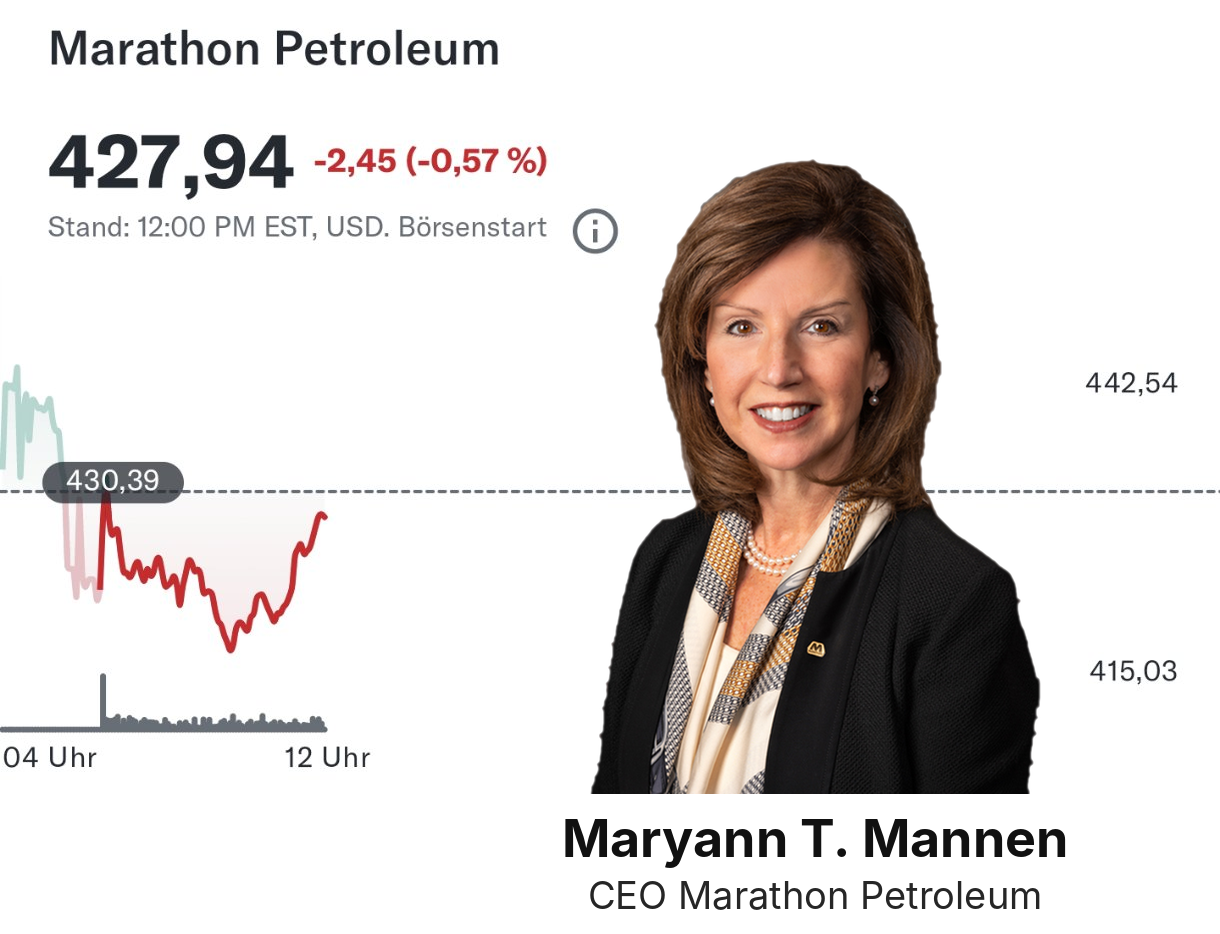
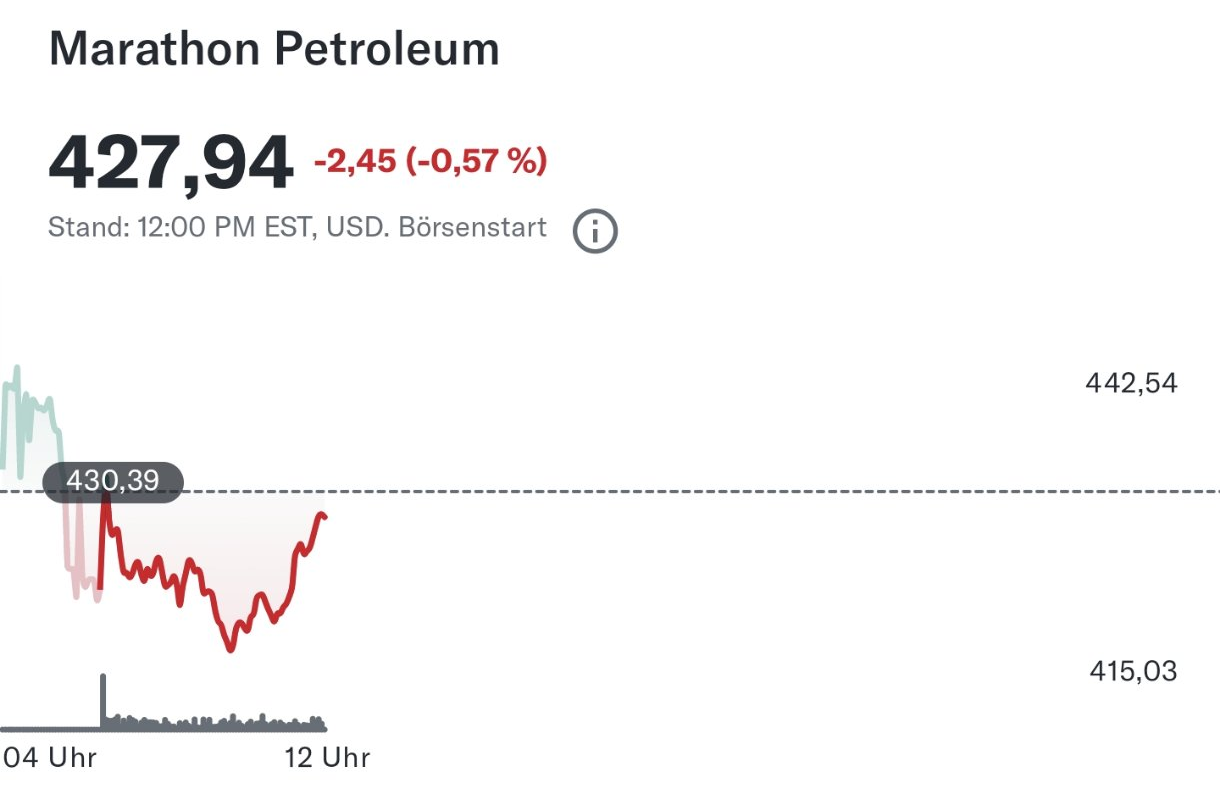
Story: Kursbild links und Portrait rechts sitzen auf dem unteren Balken, Name klein links neben der Person
Claude-Session: https://claude.ai/code/session_019XvbgBLukfMhVVHAfy3Xu4

diff --git a/news/marathon-petroleum-q3-2026-quartalszahlen/index.html b/news/marathon-petroleum-q3-2026-quartalszahlen/index.html
@@ -45,7 +45,7 @@
 <p class="kchip-row"><span class="kchip" data-kurs="MPC">$MPC</span></p>
 <p class="lead">Marathon Petroleum meldet für das dritte Quartal 2026 einen Nettogewinn von 7,4 Mrd. USD. Treiber sind die stark gestiegenen Margen für Diesel und andere Kraftstoffe, nicht mehr Absatz.</p>
 <p class="byline"><strong><a href="../../ueber-uns/">Aus der Redaktion</a></strong> · <time datetime="2026-11-03T18:05:00+01:00">3. November 2026, 18:05 Uhr</time> · 5 Min. Lesezeit</p>
-<div class="sharebar" data-url="https://dividenden-rechner.github.io/aktien-hub/news/marathon-petroleum-q3-2026-quartalszahlen/" data-story="{&quot;title&quot;: &quot;Raffineriemargen heben das bereinigte EBITDA auf 11,7 Mrd. US-Dollar&quot;, &quot;lines&quot;: [&quot;Bereinigtes EBITDA: 11,7 Mrd. USD (Vorjahr 3,2 Mrd.)&quot;, &quot;Gewinn je Aktie: 26,93 USD (bereinigt)&quot;], &quot;points&quot;: [&quot;Treiber: Das Raffineriegeschäft liefert 9,9 Mrd. USD bereinigtes EBITDA nach 1,8 Mrd. im Vorjahr. Fast der gesamte Sprung kommt aus höheren Margen für Kraftstoffe wie Diesel, nicht aus mehr Absatz oder niedrigeren Kosten.&quot;, &quot;Kapitalrückgabe: 3,3 Mrd. USD fließen an die Aktionäre, fast alles über Aktienrückkäufe. Die Dividende steigt um 10 %, dazu kommt eine neue Rückkaufermächtigung über 5 Mrd. USD.&quot;, &quot;Einordnung: Die Margen hängen stark an der Marktlage. Das Unternehmen selbst nennt Preisschwankungen durch den US-Iran-Konflikt und mögliche Sondersteuern als Risiko.&quot;], &quot;box&quot;: &quot;Kurz gesagt&quot;, &quot;ct&quot;: &quot;$MPC&quot;, &quot;img&quot;: &quot;../../assets/magazin/marathon-petroleum-q3-2026-quartalszahlen-f1.png&quot;, &quot;logo&quot;: &quot;../../assets/logos/mpc.png&quot;, &quot;cat&quot;: &quot;Quartalszahlen&quot;, &quot;tpl&quot;: &quot;../../assets/story-vorlagen/quartalsbericht.png&quot;, &quot;fit&quot;: &quot;contain&quot;, &quot;chart&quot;: &quot;../../assets/magazin/marathon-petroleum-q3-2026-quartalszahlen-kurs.png&quot;}"><span class="sharelab">Teilen</span><button type="button" class="sharebtn ig" id="igshare" title="Als Instagram-Story teilen" aria-label="Als Instagram-Story teilen"><svg viewBox="0 0 24 24" aria-hidden="true"><rect x="3" y="3" width="18" height="18" rx="5.2" fill="none" stroke="currentColor" stroke-width="2"/><circle cx="12" cy="12" r="4.1" fill="none" stroke="currentColor" stroke-width="2"/><circle cx="17.3" cy="6.7" r="1.3"/></svg></button><a class="sharebtn x" href="https://twitter.com/intent/tweet?text=Marathon%20Petroleum%3A%20Raffineriemargen%20heben%20das%20bereinigte%20EBITDA%20auf%2011%2C7%E2%80%AFMrd.%E2%80%AFUS-Dollar%0A%0A%24MPC%20%23Dividende%20%23Aktien%20%23Quartalszahlen&amp;url=https%3A//dividenden-rechner.github.io/aktien-hub/news/marathon-petroleum-q3-2026-quartalszahlen/" target="_blank" rel="noopener nofollow" title="Auf X teilen" aria-label="Auf X teilen"><svg viewBox="0 0 24 24" aria-hidden="true"><path d="M18.244 2.25h3.308l-7.227 8.26 8.502 11.24H16.17l-5.214-6.817L4.99 21.75H1.68l7.73-8.835L1.254 2.25H8.08l4.713 6.231zm-1.161 17.52h1.833L7.084 4.126H5.117z"/></svg></a><a class="sharebtn facebook" href="https://www.facebook.com/sharer/sharer.php?u=https%3A//dividenden-rechner.github.io/aktien-hub/news/marathon-petroleum-q3-2026-quartalszahlen/" target="_blank" rel="noopener nofollow" title="Auf Facebook teilen" aria-label="Auf Facebook teilen"><svg viewBox="0 0 24 24" aria-hidden="true"><path d="M24 12.073c0-6.627-5.373-12-12-12s-12 5.373-12 12c0 5.99 4.388 10.954 10.125 11.854v-8.385H7.078v-3.47h3.047V9.43c0-3.007 1.792-4.669 4.533-4.669 1.312 0 2.686.235 2.686.235v2.953H15.83c-1.491 0-1.956.925-1.956 1.874v2.25h3.328l-.532 3.47h-2.796v8.385C19.612 23.027 24 18.062 24 12.073z"/></svg></a><a class="sharebtn linkedin" href="https://www.linkedin.com/sharing/share-offsite/?url=https%3A//dividenden-rechner.github.io/aktien-hub/news/marathon-petroleum-q3-2026-quartalszahlen/" target="_blank" rel="noopener nofollow" title="Auf LinkedIn teilen" aria-label="Auf LinkedIn teilen"><svg viewBox="0 0 24 24" aria-hidden="true"><path d="M20.447 20.452h-3.554v-5.569c0-1.328-.027-3.037-1.852-3.037-1.853 0-2.136 1.445-2.136 2.939v5.667H9.351V9h3.414v1.561h.046c.477-.9 1.637-1.85 3.37-1.85 3.601 0 4.267 2.37 4.267 5.455v6.286zM5.337 7.433c-1.144 0-2.063-.926-2.063-2.065 0-1.138.92-2.063 2.063-2.063 1.14 0 2.064.925 2.064 2.063 0 1.139-.925 2.065-2.064 2.065zm1.782 13.019H3.555V9h3.564v11.452zM22.225 0H1.771C.792 0 0 .774 0 1.729v20.542C0 23.227.792 24 1.771 24h20.451C23.2 24 24 23.227 24 22.271V1.729C24 .774 23.2 0 22.222 0h.003z"/></svg></a><a class="sharebtn whatsapp" href="https://wa.me/?text=Marathon%20Petroleum%3A%20Raffineriemargen%20heben%20das%20bereinigte%20EBITDA%20auf%2011%2C7%E2%80%AFMrd.%E2%80%AFUS-Dollar%20https%3A//dividenden-rechner.github.io/aktien-hub/news/marathon-petroleum-q3-2026-quartalszahlen/" target="_blank" rel="noopener nofollow" title="Per WhatsApp senden" aria-label="Per WhatsApp senden"><svg viewBox="0 0 24 24" aria-hidden="true"><path d="M12 2a10 10 0 00-8.6 15.1L2 22l5-1.3A10 10 0 1012 2zm0 18.2c-1.5 0-3-.4-4.2-1.2l-.3-.2-3 .8.8-2.9-.2-.3A8.2 8.2 0 1112 20.2zm4.5-6.1c-.2-.1-1.5-.7-1.7-.8-.2-.1-.4-.1-.6.1l-.8 1c-.1.2-.3.2-.5.1-1.4-.7-2.4-1.3-3.3-2.9-.2-.4.2-.4.7-1.3.1-.2 0-.3 0-.5l-.8-1.8c-.2-.5-.4-.4-.6-.4h-.5c-.2 0-.5.1-.7.3-.8.8-1 1.7-.9 2.6.2 1.1.8 2.1 1.6 3 1.4 1.7 3.1 2.6 5.2 3.2.7.2 1.3.2 1.8.1.6-.1 1.5-.6 1.7-1.2.2-.6.2-1.1.2-1.2-.1-.1-.3-.2-.5-.3z"/></svg></a><a class="sharebtn telegram" href="https://t.me/share/url?url=https%3A//dividenden-rechner.github.io/aktien-hub/news/marathon-petroleum-q3-2026-quartalszahlen/&amp;text=Marathon%20Petroleum%3A%20Raffineriemargen%20heben%20das%20bereinigte%20EBITDA%20auf%2011%2C7%E2%80%AFMrd.%E2%80%AFUS-Dollar" target="_blank" rel="noopener nofollow" title="Per Telegram senden" aria-label="Per Telegram senden"><svg viewBox="0 0 24 24" aria-hidden="true"><path d="M9.78 18.65l.28-4.23 7.68-6.92c.34-.31-.07-.46-.52-.19L7.74 13.3 3.64 12c-.88-.25-.89-.86.2-1.3l15.97-6.16c.73-.33 1.43.18 1.15 1.3l-2.72 12.81c-.19.91-.74 1.13-1.5.71L12.6 16.3l-1.99 1.93c-.23.23-.42.42-.83.42z"/></svg></a><a class="sharebtn mail" href="mailto:?subject=Marathon%20Petroleum%3A%20Raffineriemargen%20heben%20das%20bereinigte%20EBITDA%20auf%2011%2C7%E2%80%AFMrd.%E2%80%AFUS-Dollar&amp;body=Marathon%20Petroleum%20meldet%20f%C3%BCr%20das%20dritte%20Quartal%202026%20einen%20Nettogewinn%20von%207%2C4%E2%80%AFMrd.%E2%80%AFUSD.%20Treiber%20sind%20die%20stark%20gestiegenen%20Margen%20f%C3%BCr%20Diesel%20und%20andere%20Kraftstoffe%2C%20nicht%20mehr%20Absatz.%0A%0Ahttps%3A//dividenden-rechner.github.io/aktien-hub/news/marathon-petroleum-q3-2026-quartalszahlen/" target="_blank" rel="noopener nofollow" title="Per E-Mail senden" aria-label="Per E-Mail senden"><svg viewBox="0 0 24 24" aria-hidden="true"><rect x="2.5" y="5" width="19" height="14" rx="2.2" fill="none" stroke="currentColor" stroke-width="2"/><path d="M3.5 7l8.5 6.2L20.5 7" fill="none" stroke="currentColor" stroke-width="2" stroke-linejoin="round"/></svg></a><button type="button" class="sharebtn" id="cpshare" title="Link kopieren" aria-label="Link kopieren"><svg viewBox="0 0 24 24" aria-hidden="true"><path d="M10 14a4 4 0 005.7 0l3-3a4 4 0 00-5.7-5.7l-1 1M14 10a4 4 0 00-5.7 0l-3 3a4 4 0 005.7 5.7l1-1" fill="none" stroke="currentColor" stroke-width="2" stroke-linecap="round"/></svg></button><span class="sharemsg" id="igmsg" role="status"></span></div>
+<div class="sharebar" data-url="https://dividenden-rechner.github.io/aktien-hub/news/marathon-petroleum-q3-2026-quartalszahlen/" data-story="{&quot;title&quot;: &quot;Raffineriemargen heben das bereinigte EBITDA auf 11,7 Mrd. US-Dollar&quot;, &quot;lines&quot;: [&quot;Bereinigtes EBITDA: 11,7 Mrd. USD (Vorjahr 3,2 Mrd.)&quot;, &quot;Gewinn je Aktie: 26,93 USD (bereinigt)&quot;], &quot;points&quot;: [&quot;Treiber: Das Raffineriegeschäft liefert 9,9 Mrd. USD bereinigtes EBITDA nach 1,8 Mrd. im Vorjahr. Fast der gesamte Sprung kommt aus höheren Margen für Kraftstoffe wie Diesel, nicht aus mehr Absatz oder niedrigeren Kosten.&quot;, &quot;Kapitalrückgabe: 3,3 Mrd. USD fließen an die Aktionäre, fast alles über Aktienrückkäufe. Die Dividende steigt um 10 %, dazu kommt eine neue Rückkaufermächtigung über 5 Mrd. USD.&quot;, &quot;Einordnung: Die Margen hängen stark an der Marktlage. Das Unternehmen selbst nennt Preisschwankungen durch den US-Iran-Konflikt und mögliche Sondersteuern als Risiko.&quot;], &quot;box&quot;: &quot;Kurz gesagt&quot;, &quot;ct&quot;: &quot;$MPC&quot;, &quot;img&quot;: &quot;../../assets/magazin/marathon-petroleum-q3-2026-quartalszahlen-f1.png&quot;, &quot;logo&quot;: &quot;../../assets/logos/mpc.png&quot;, &quot;cat&quot;: &quot;Quartalszahlen&quot;, &quot;tpl&quot;: &quot;../../assets/story-vorlagen/quartalsbericht.png&quot;, &quot;fit&quot;: &quot;contain&quot;, &quot;chart&quot;: &quot;../../assets/magazin/marathon-petroleum-q3-2026-quartalszahlen-kurs.png&quot;, &quot;portrait&quot;: &quot;../../assets/magazin/maryann-mannen-marathon-petroleum.png&quot;, &quot;quote&quot;: &quot;&quot;, &quot;quote_by&quot;: &quot;Maryann T. Mannen | CEO Marathon Petroleum&quot;}"><span class="sharelab">Teilen</span><button type="button" class="sharebtn ig" id="igshare" title="Als Instagram-Story teilen" aria-label="Als Instagram-Story teilen"><svg viewBox="0 0 24 24" aria-hidden="true"><rect x="3" y="3" width="18" height="18" rx="5.2" fill="none" stroke="currentColor" stroke-width="2"/><circle cx="12" cy="12" r="4.1" fill="none" stroke="currentColor" stroke-width="2"/><circle cx="17.3" cy="6.7" r="1.3"/></svg></button><a class="sharebtn x" href="https://twitter.com/intent/tweet?text=Marathon%20Petroleum%3A%20Raffineriemargen%20heben%20das%20bereinigte%20EBITDA%20auf%2011%2C7%E2%80%AFMrd.%E2%80%AFUS-Dollar%0A%0A%24MPC%20%23Dividende%20%23Aktien%20%23Quartalszahlen&amp;url=https%3A//dividenden-rechner.github.io/aktien-hub/news/marathon-petroleum-q3-2026-quartalszahlen/" target="_blank" rel="noopener nofollow" title="Auf X teilen" aria-label="Auf X teilen"><svg viewBox="0 0 24 24" aria-hidden="true"><path d="M18.244 2.25h3.308l-7.227 8.26 8.502 11.24H16.17l-5.214-6.817L4.99 21.75H1.68l7.73-8.835L1.254 2.25H8.08l4.713 6.231zm-1.161 17.52h1.833L7.084 4.126H5.117z"/></svg></a><a class="sharebtn facebook" href="https://www.facebook.com/sharer/sharer.php?u=https%3A//dividenden-rechner.github.io/aktien-hub/news/marathon-petroleum-q3-2026-quartalszahlen/" target="_blank" rel="noopener nofollow" title="Auf Facebook teilen" aria-label="Auf Facebook teilen"><svg viewBox="0 0 24 24" aria-hidden="true"><path d="M24 12.073c0-6.627-5.373-12-12-12s-12 5.373-12 12c0 5.99 4.388 10.954 10.125 11.854v-8.385H7.078v-3.47h3.047V9.43c0-3.007 1.792-4.669 4.533-4.669 1.312 0 2.686.235 2.686.235v2.953H15.83c-1.491 0-1.956.925-1.956 1.874v2.25h3.328l-.532 3.47h-2.796v8.385C19.612 23.027 24 18.062 24 12.073z"/></svg></a><a class="sharebtn linkedin" href="https://www.linkedin.com/sharing/share-offsite/?url=https%3A//dividenden-rechner.github.io/aktien-hub/news/marathon-petroleum-q3-2026-quartalszahlen/" target="_blank" rel="noopener nofollow" title="Auf LinkedIn teilen" aria-label="Auf LinkedIn teilen"><svg viewBox="0 0 24 24" aria-hidden="true"><path d="M20.447 20.452h-3.554v-5.569c0-1.328-.027-3.037-1.852-3.037-1.853 0-2.136 1.445-2.136 2.939v5.667H9.351V9h3.414v1.561h.046c.477-.9 1.637-1.85 3.37-1.85 3.601 0 4.267 2.37 4.267 5.455v6.286zM5.337 7.433c-1.144 0-2.063-.926-2.063-2.065 0-1.138.92-2.063 2.063-2.063 1.14 0 2.064.925 2.064 2.063 0 1.139-.925 2.065-2.064 2.065zm1.782 13.019H3.555V9h3.564v11.452zM22.225 0H1.771C.792 0 0 .774 0 1.729v20.542C0 23.227.792 24 1.771 24h20.451C23.2 24 24 23.227 24 22.271V1.729C24 .774 23.2 0 22.222 0h.003z"/></svg></a><a class="sharebtn whatsapp" href="https://wa.me/?text=Marathon%20Petroleum%3A%20Raffineriemargen%20heben%20das%20bereinigte%20EBITDA%20auf%2011%2C7%E2%80%AFMrd.%E2%80%AFUS-Dollar%20https%3A//dividenden-rechner.github.io/aktien-hub/news/marathon-petroleum-q3-2026-quartalszahlen/" target="_blank" rel="noopener nofollow" title="Per WhatsApp senden" aria-label="Per WhatsApp senden"><svg viewBox="0 0 24 24" aria-hidden="true"><path d="M12 2a10 10 0 00-8.6 15.1L2 22l5-1.3A10 10 0 1012 2zm0 18.2c-1.5 0-3-.4-4.2-1.2l-.3-.2-3 .8.8-2.9-.2-.3A8.2 8.2 0 1112 20.2zm4.5-6.1c-.2-.1-1.5-.7-1.7-.8-.2-.1-.4-.1-.6.1l-.8 1c-.1.2-.3.2-.5.1-1.4-.7-2.4-1.3-3.3-2.9-.2-.4.2-.4.7-1.3.1-.2 0-.3 0-.5l-.8-1.8c-.2-.5-.4-.4-.6-.4h-.5c-.2 0-.5.1-.7.3-.8.8-1 1.7-.9 2.6.2 1.1.8 2.1 1.6 3 1.4 1.7 3.1 2.6 5.2 3.2.7.2 1.3.2 1.8.1.6-.1 1.5-.6 1.7-1.2.2-.6.2-1.1.2-1.2-.1-.1-.3-.2-.5-.3z"/></svg></a><a class="sharebtn telegram" href="https://t.me/share/url?url=https%3A//dividenden-rechner.github.io/aktien-hub/news/marathon-petroleum-q3-2026-quartalszahlen/&amp;text=Marathon%20Petroleum%3A%20Raffineriemargen%20heben%20das%20bereinigte%20EBITDA%20auf%2011%2C7%E2%80%AFMrd.%E2%80%AFUS-Dollar" target="_blank" rel="noopener nofollow" title="Per Telegram senden" aria-label="Per Telegram senden"><svg viewBox="0 0 24 24" aria-hidden="true"><path d="M9.78 18.65l.28-4.23 7.68-6.92c.34-.31-.07-.46-.52-.19L7.74 13.3 3.64 12c-.88-.25-.89-.86.2-1.3l15.97-6.16c.73-.33 1.43.18 1.15 1.3l-2.72 12.81c-.19.91-.74 1.13-1.5.71L12.6 16.3l-1.99 1.93c-.23.23-.42.42-.83.42z"/></svg></a><a class="sharebtn mail" href="mailto:?subject=Marathon%20Petroleum%3A%20Raffineriemargen%20heben%20das%20bereinigte%20EBITDA%20auf%2011%2C7%E2%80%AFMrd.%E2%80%AFUS-Dollar&amp;body=Marathon%20Petroleum%20meldet%20f%C3%BCr%20das%20dritte%20Quartal%202026%20einen%20Nettogewinn%20von%207%2C4%E2%80%AFMrd.%E2%80%AFUSD.%20Treiber%20sind%20die%20stark%20gestiegenen%20Margen%20f%C3%BCr%20Diesel%20und%20andere%20Kraftstoffe%2C%20nicht%20mehr%20Absatz.%0A%0Ahttps%3A//dividenden-rechner.github.io/aktien-hub/news/marathon-petroleum-q3-2026-quartalszahlen/" target="_blank" rel="noopener nofollow" title="Per E-Mail senden" aria-label="Per E-Mail senden"><svg viewBox="0 0 24 24" aria-hidden="true"><rect x="2.5" y="5" width="19" height="14" rx="2.2" fill="none" stroke="currentColor" stroke-width="2"/><path d="M3.5 7l8.5 6.2L20.5 7" fill="none" stroke="currentColor" stroke-width="2" stroke-linejoin="round"/></svg></a><button type="button" class="sharebtn" id="cpshare" title="Link kopieren" aria-label="Link kopieren"><svg viewBox="0 0 24 24" aria-hidden="true"><path d="M10 14a4 4 0 005.7 0l3-3a4 4 0 00-5.7-5.7l-1 1M14 10a4 4 0 00-5.7 0l-3 3a4 4 0 005.7 5.7l1-1" fill="none" stroke="currentColor" stroke-width="2" stroke-linecap="round"/></svg></button><span class="sharemsg" id="igmsg" role="status"></span></div>
 <figure class="cover"><img src="../../assets/magazin/marathon-petroleum-q3-2026-quartalszahlen.png" alt="Marathon Petroleum: Raffineriemargen heben das bereinigte EBITDA auf 11,7 Mrd. US-Dollar" width="1200" height="675" fetchpriority="high"></figure>
 <div class="admonition kurz">
 <p class="admonition-title">Kurz gesagt</p>

diff --git a/assets/story.js b/assets/story.js
@@ -31,7 +31,7 @@
     var tpl = await load(S.tpl), photo = withPhoto ? await load(S.img) : null, logo = await load(S.logo);
     /* Eigene Vorlage (gruene Balken mit Rubrik und Adresse); der Inhalt darin bleibt schlicht: weisser Grund, schwarze Schrift, keine Farbflaechen. */
     if (tpl) c.drawImage(tpl, 0, 0, W, H); else { c.fillStyle = "#fff"; c.fillRect(0, 0, W, H); c.fillStyle = "#99e6b1"; c.fillRect(0, 108, W, 86); c.fillRect(0, 1866, W, 54); }
-    var F = 'InterS,Inter,"Segoe UI",Roboto,Helvetica,Arial,sans-serif', LIM = 1835 - (S.chart ? 600 : (S.portrait ? 470 : 0)), G = "#111", D = "#111";
+    var F = 'InterS,Inter,"Segoe UI",Roboto,Helvetica,Arial,sans-serif', LIM = 1835 - ((S.chart && S.portrait) ? 560 : (S.chart ? 600 : (S.portrait ? 470 : 0))), G = "#111", D = "#111";
     c.textBaseline = "top";
     var pts = S.points || [], lns = S.lines || [], ph = photo ? 470 : 0, fs = 30, fit = !!(photo && S.fit === "contain");
     if (fit) ph = Math.round(960 * photo.height / photo.width);
@@ -131,7 +131,21 @@
       yy -= String(S.text).split(/\n+/).reduce(function (a, p) { return a + wrap(c, p, 960, 0).length * lh2 + 14; }, 0);
       String(S.text).split(/\n+/).forEach(function (p) { wrap(c, p, 960, 0).forEach(function (l) { c.fillText(l, 60, yy); yy += lh2; }); yy += 14; });
     }
-    if (S.portrait) {
+    if (S.chart && S.portrait) {
+      /* Kursbild links und Portrait rechts sitzen beide unten auf dem gruenen Balken; der Name steht klein links neben der Person */
+      var kc = await load(S.chart), kp = await load(S.portrait), bar = 1866;
+      if (kc) { var kw2 = 880, kh2 = Math.round(kw2 * kc.height / kc.width); c.drawImage(kc, 24, bar - kh2, kw2, kh2); }
+      if (kp) {
+        var kph = 520, kpw = Math.round(kph * kp.width / kp.height), kpx = 1056 - kpw;
+        c.drawImage(kp, kpx, bar - kph, kpw, kph);
+        if (S.quote_by) {
+          var nm = S.quote_by.split("|"); c.textAlign = "right"; c.textBaseline = "alphabetic"; c.fillStyle = "#111";
+          c.font = "700 30px " + F; c.fillText(nm[0].trim(), kpx - 14, bar - 62);
+          if (nm[1]) { c.font = "400 25px " + F; c.fillStyle = "#262626"; c.fillText(nm[1].trim(), kpx - 14, bar - 24); }
+          c.textAlign = "left"; c.textBaseline = "top";
+        }
+      }
+    } else if (S.portrait) {
       /* Freigestelltes Portrait unten links (steht auf dem unteren Balken), daneben das Zitat */
       var pt = await load(S.portrait);
       if (pt) {
@@ -147,7 +161,7 @@
         }
       }
     }
-    if (S.chart) {
+    if (S.chart && !S.portrait) {
       var ch = await load(S.chart);
       if (ch) { var top = yy + 30, bot = 1835, r2 = Math.min(960 / ch.width, (bot - top) / ch.height), cw = ch.width * r2, chh = ch.height * r2; c.drawImage(ch, 60 + (960 - cw) / 2, top, cw, chh); }
     }

diff --git a/content/magazin/79738896_2026-11-03/8400_1805-marathon-petroleum-q3-2026-quartalszahlen.md b/content/magazin/79738896_2026-11-03/8400_1805-marathon-petroleum-q3-2026-quartalszahlen.md
@@ -12,6 +12,8 @@ logo_symbol: MPC
 logo_domain: marathonpetroleum.com
 logo_file: assets/logos/mpc.png
 story_chart: assets/magazin/marathon-petroleum-q3-2026-quartalszahlen-kurs.png
+story_portrait: assets/magazin/maryann-mannen-marathon-petroleum.png
+story_quote_by: "Maryann T. Mannen | CEO Marathon Petroleum"
 ---
 <!-- PRÜFEN: Aufmacherfoto fehlt noch: Fotoanfrage steht in tools/asset.request, das Foto wird automatisch gewählt. Bitte prüfen, ob es zur Raffinerie-Geschichte passt. -->
 <!-- PRÜFEN: Kursangabe (427,94 USD, -0,57 %, Stand 12:00 Uhr EST am 03.11.2026) stammt aus dem eigenen Yahoo-Finance-Screenshot vom 03.11.2026, 18:00 Uhr. Das Kursbild für die Story ist daraus zugeschnitten. Nutzungsbedingungen von Yahoo prüfen. -->
